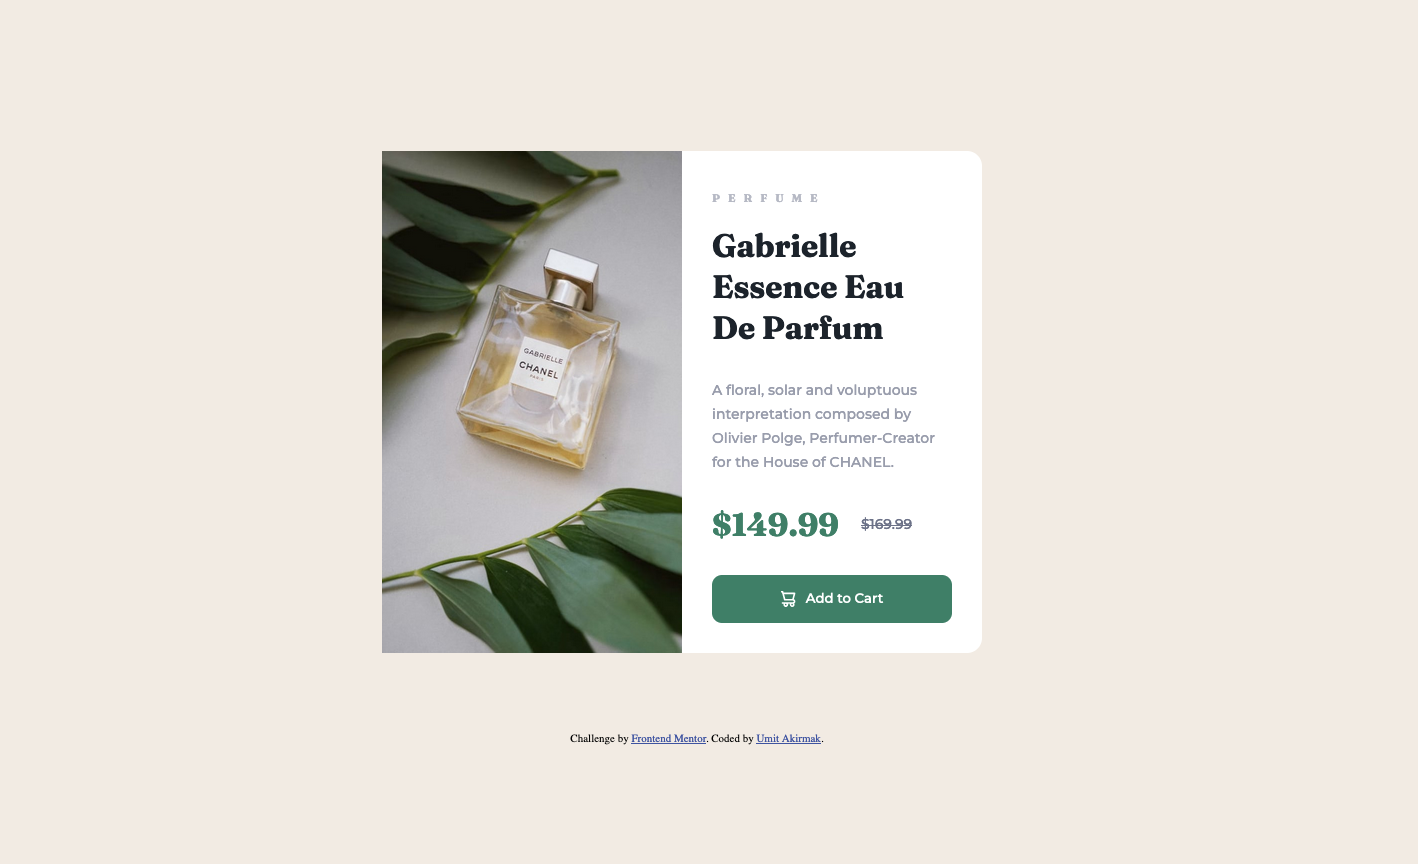
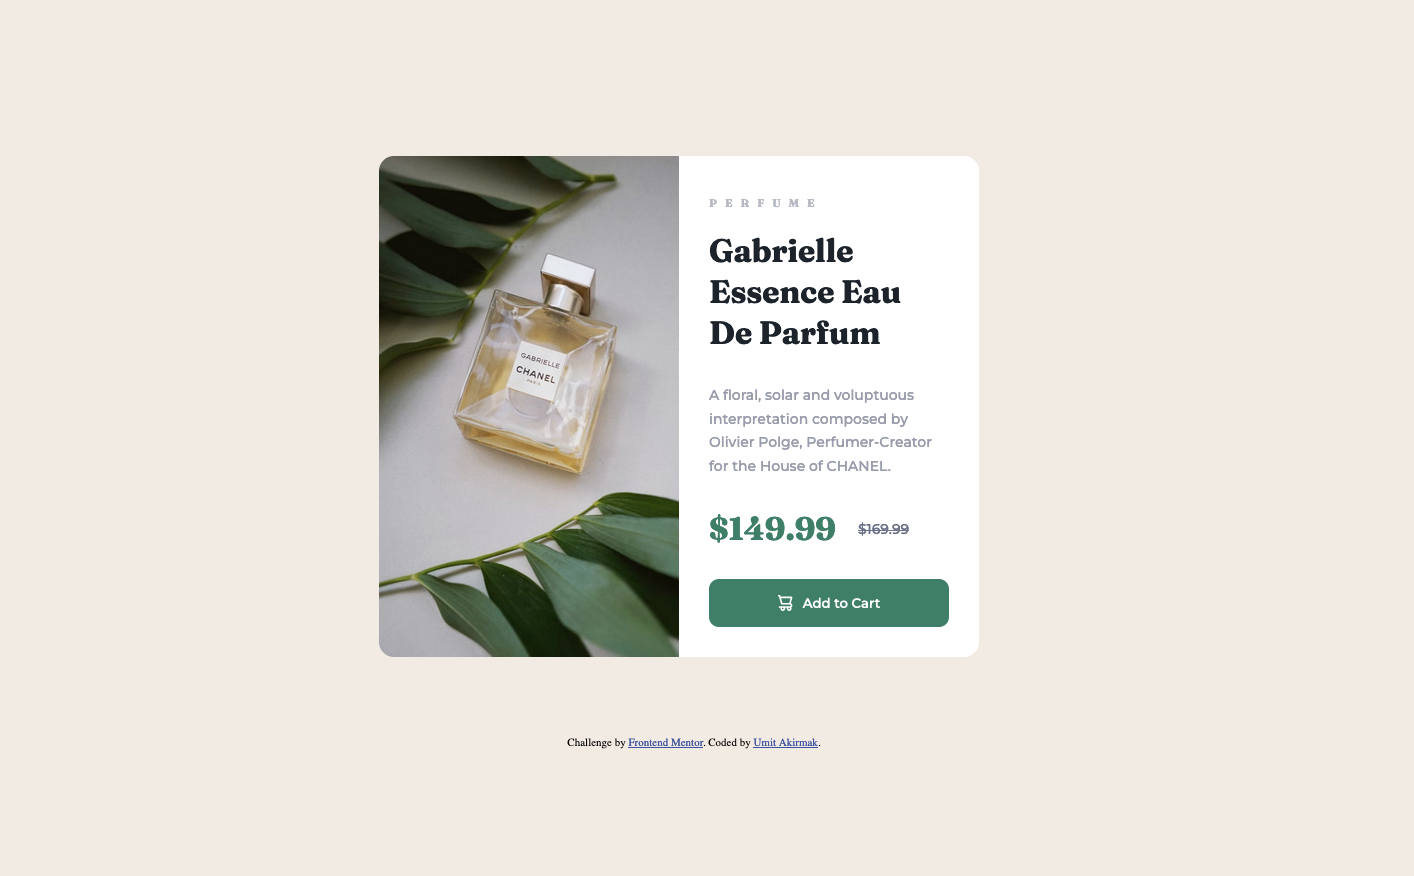
fixed curvature of the image

diff --git a/style.css b/style.css
@@ -67,6 +67,12 @@ picture {
     display: flex;
 }
 
+.perfume_img {
+    border-radius: 15px 0 0 15px;
+    ;
+}
+
+
 .description {
     opacity: 70%;
     font-family: 'Montserrat', sans-serif;
@@ -118,10 +124,6 @@ button p {
     padding: 30px;
     border-radius: 0 15px 15px 0;
 }
-
-.perfume_img {}
-
-
 
 .prices {
     display: flex;

diff --git a/index.html b/index.html
@@ -27,6 +27,7 @@
   <main class="container">
 
     <article class="card">
+
       <picture>
         <source srcset="./images/image-product-desktop.jpg" media="(min-width: 376px)">
         <img class="perfume_img" id="main-img" src="./images/image-product-mobile.jpg" width="300" height="auto"
